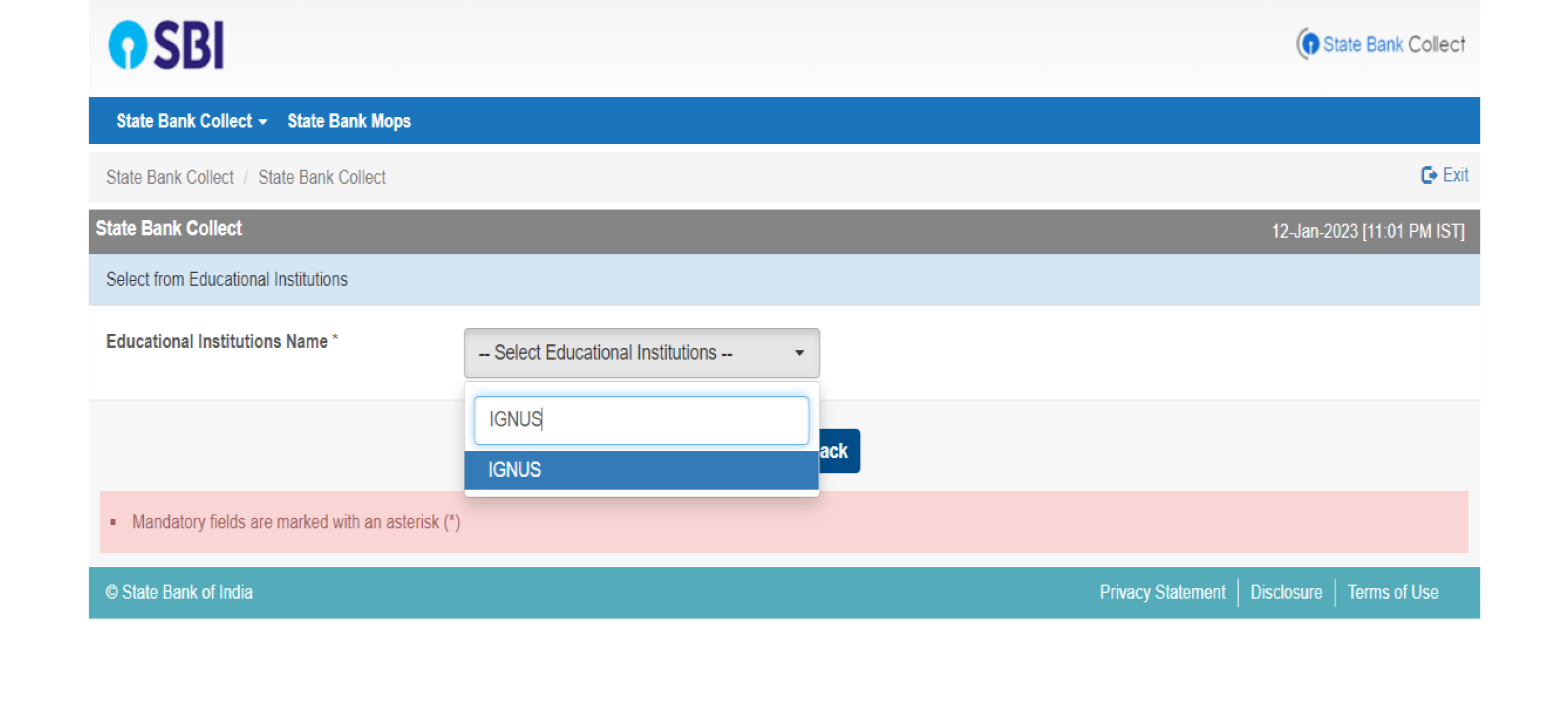
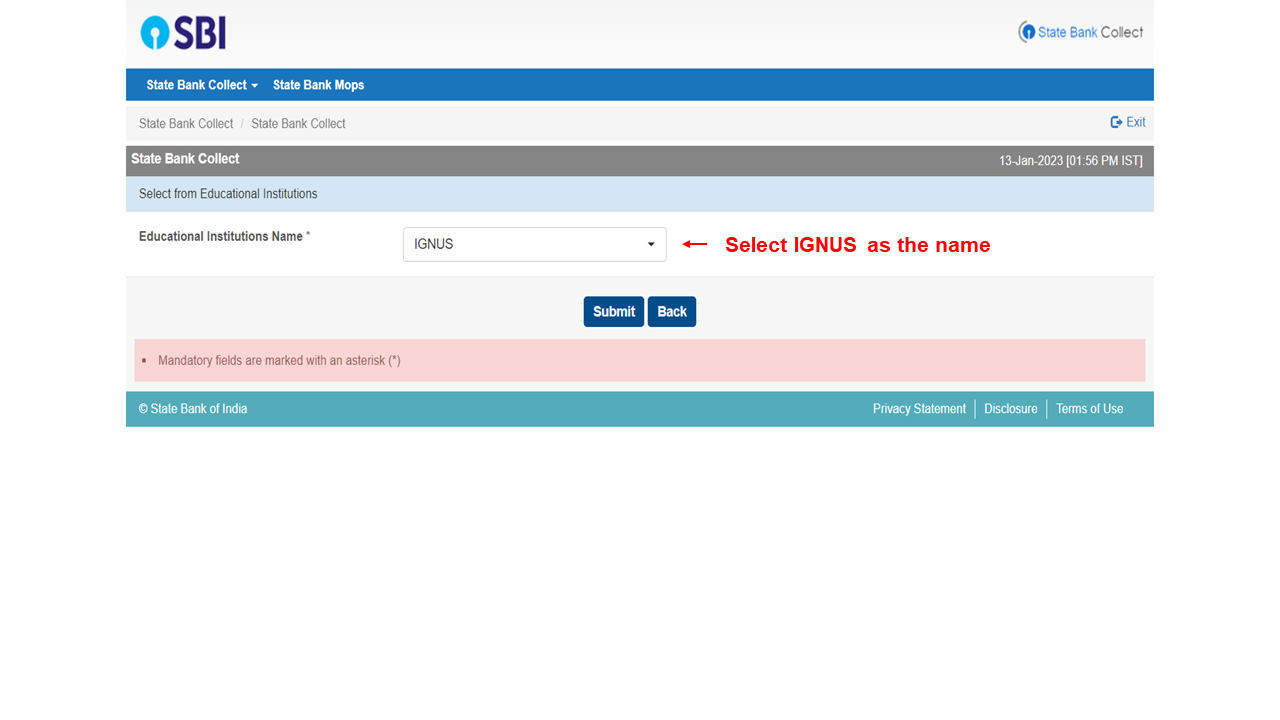
Modifies payments instruction page

diff --git a/frontend/payment_steps/steps.html b/frontend/payment_steps/steps.html
@@ -155,48 +155,54 @@
               <h3><br> Rs 2500</h3>
                 IGMUN + Socials + Accommodation
               </div>
-      </div>
+        </div>
 
         </div>
 
-        
-
-   
         <div class="steps">
-          <h1>How to Pay ?</h1>
+          <div class="steps_heading"><h1>How to Pay ?</h1></div>
+
             <div class="step">
               <div class="details">
-                1) Read the terms and condition and click the checkbox to proceed            </div>
+                1) Read the terms and condition and click the checkbox to proceed
+              </div>
                 <img src="../static/payment_steps/Step1.png" alt="step-1">            
               </div>
-                
-            
-
+ 
             <div class="step">
               <div class="details">
                 2) Select Rajasthan as the state of institutition and the type of institution to Educational Institution
                 <br>
-                Click Go to proceed further            </div>
+                Click Go to proceed further            
+              </div>
                 <img src="../static/payment_steps/Step2.png" alt="step-2">
-            
             </div>
 
             <div class="step">
               <div class="details">
-                3) Search and select IGNUS in the educational institutions and click Submit            </div>
-                <img src="../static/payment_steps/Step3.png" alt="step-3">
+                3) Search and select IGNUS in the educational institutions and click Submit
               </div>
-                
-            
+                <img src="../static/payment_steps/Step3.png" alt="step-3">
+            </div>
 
             <div class="step">
               <div class="details">
-                4) Select Registration and Entry Fee in Payment category            </div>
-                <img src="../static/payment_steps/Step4.png" alt="step-4">
+                4) Select Registration and Entry Fee in Payment category
               </div>
-                
-            
+                <img src="../static/payment_steps/Step4.png" alt="step-4">
+            </div>
 
+              <div class="step">
+                <div class="details">
+                  5) Enter the required details as instructed
+                </div>
+                  <img src="../static/payment_steps/Step5.png" alt="step-3">
+              </div>
         </div>
+<!-- 
+        <div class="bottom_button">
+          <a href="https://www.onlinesbi.sbi/sbicollect/icollecthome.htm" target="_blank" id="button_pay"><p>Proceed to Payment</p></a>
+        </div> -->
+      </div>
     </body>
 </html>

diff --git a/frontend/payment_steps/steps.css b/frontend/payment_steps/steps.css
@@ -6,7 +6,9 @@
 body {
     margin: 0;
     font-family: 'Montserrat', sans-serif;
-    background-color: rgb(50, 175, 165);
+    background-color: rgb(50, 156, 175);
+    /* background-color: #331041; */
+    
 }
 ::-webkit-scrollbar {
     width: 0;
@@ -255,12 +257,14 @@ body {
     text-decoration: none;
     justify-content: center;
     color: #1d3557;
+    
 }
 
 .heading p{
     border: 2px #1d3557 solid;
     border-radius: 10px;
     padding: 5px;
+    font-weight: 800;
 }
 
 .heading p:hover{
@@ -301,7 +305,7 @@ body {
     height: fit-content; 
     display: grid;
     grid-template-columns: repeat(3, 1fr);
-    padding-left: 5%;
+    /* padding-left: 5%; */
     padding-bottom: 5%;
     color:#1d3557;
   }
@@ -375,15 +379,22 @@ body {
     .btn-container{flex-direction: column; row-gap: 2vh;}
     .btn-container button{font-size: 11px;}
   }
-
+  .steps_heading{
+    height: 10%;
+    width: 100%;
+    display: flex;
+    align-items: center;
+    justify-content: center;
+  }
   .steps{
     width: 100%;
     height: 100vh;
     padding-bottom: 5%;
+
   }
   .step{
     height: fit-content;
-    padding-top: 2%;
+    /* padding-top: 2%; */
 }
   .steps h1{
     font-size: 300% !important;
@@ -418,6 +429,31 @@ body {
     .details{
         padding-bottom: 3%;
     }
+  }
+
+  @media(max-width:676px){
+    .main h1{
+      display: flex;
+      align-items: center;
+      justify-content: center;
+    }
+
+    .passes #button_pay {
+      display: flex;
+      align-items: center;
+      justify-content: center;
+  }
+
+  }
+
+  .bottom_button{
+    height: 100vh;
+    width: 100%;
+    display: flex;
+    align-items: center;
+    justify-content: center;
+    background-color: aliceblue;
+
   }
   
   
